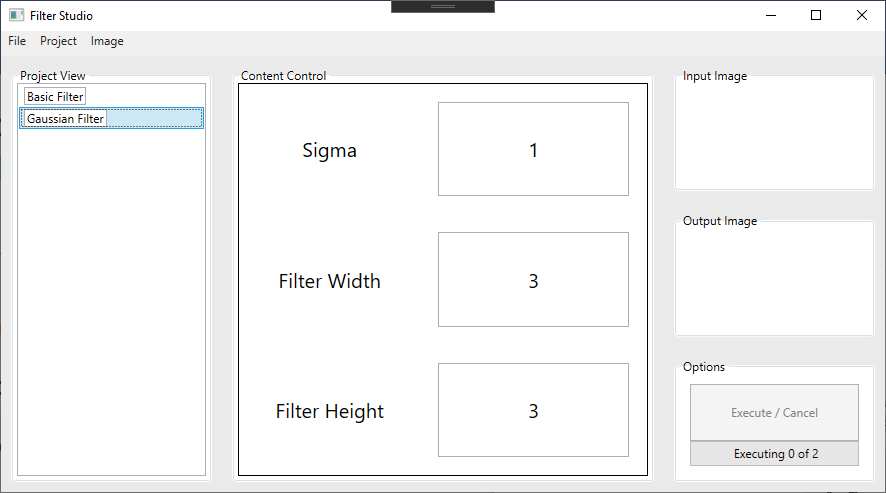
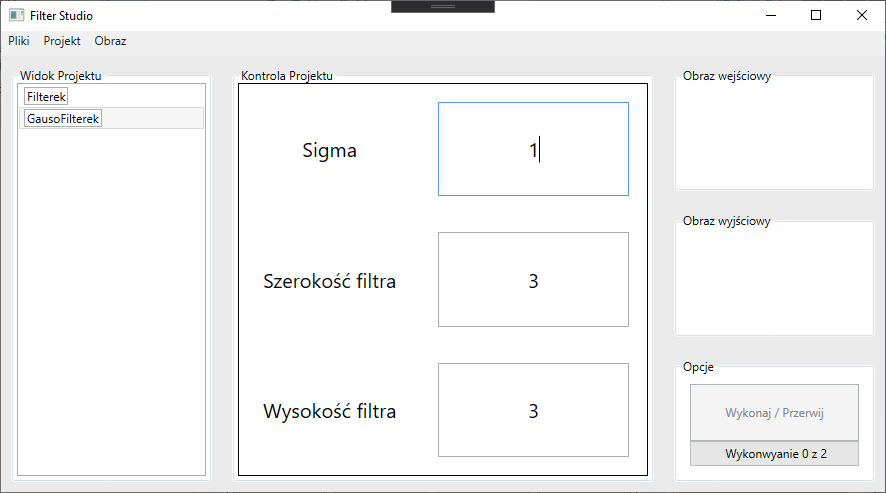
Names translated

diff --git a/docs/Documentation/main.tex b/docs/Documentation/main.tex
@@ -118,16 +118,16 @@ Ta sekcja dostarcza informacji na temat użycia programu \textbf{\textit{FilterS
 \includegraphics[width=0.9\textwidth]{overview.png}
 
 \begin{itemize}
-    \item \textit{Project View} -- Wyświetla wszystkie aktywne filtry i umożliwia użytkownikowi wybór filtra do edycji
-    \item \textit{Content Control} -- Umożliwia edycję filtrów, zobacz sekcje "Gaussian Filter" oraz "Basic Matrix Filters"
-    \item \textit{Input Image} -- Wyświetla miniaturę załadowanego obrazu
-    \item \textit{Output Image} -- Wyświetla miniaturę przetworzonego obrazu
-    \item \textit{Options} -- Ta sekcja zawiera przycisk umożliwiający renderowanie oraz wskaźnik postępu
+    \item \textit{Widok Projektu -- Wyświetla wszystkie aktywne filtry i umożliwia użytkownikowi wybór filtra do edycji
+    \item \textit{Kontrola Projektu} -- Umożliwia edycję filtrów, zobacz sekcje "Filtr Gaussa" oraz "Filtr Podstawowy"
+    \item \textit{Obraz Wejściowy} -- Wyświetla miniaturę załadowanego obrazu
+    \item \textit{Obraz Wyjściowy} -- Wyświetla miniaturę przetworzonego obrazu
+    \item \textit{Opcje} -- Ta sekcja zawiera przycisk umożliwiający renderowanie oraz wskaźnik postępu
 \end{itemize}
 
 \newpage
-\subsection{Gausian Filter}
-Aby dodać Filtr Gaussa wybierz \textbf{Project $\rightarrow$ Add New Filter $\rightarrow$ Gaussian Filter},
+\subsection{Filtr Gaussa}
+Aby dodać Filtr Gaussa wybierz \textbf{Projekt $\rightarrow$ Dodaj Filtr $\rightarrow$ Filtr Gaussa},
 
 \bigskip
 \includegraphics[width=0.9\textwidth]{gauss.png}
@@ -135,23 +135,23 @@ Aby dodać Filtr Gaussa wybierz \textbf{Project $\rightarrow$ Add New Filter $\r
 
 i wpisz parametry w pola tekstowe
 
-\subsection{Basic Matrix Filter}
-Aby dodać !!!Basic Matrix Filter!!! wybierz \textbf{Project $\rightarrow$ Add New Filter $\rightarrow$ Basic Matrix Filter},
+\subsection{Filtr Podstawowy}
+Aby dodać Filtr Podstawowy wybierz \textbf{Projekt $\rightarrow$ Dodaj filtr $\rightarrow$ Podstawowy Filtr},
 
 \bigskip
 \includegraphics[width=0.9\textwidth]{matrix.png}
 \bigskip
 
-dostosuj wymiary macierzy za pomocą przycisków w dolnej części !!!Content Control!!!\textbf{Content Control} i wpisz wartości w komórki.
+dostosuj wymiary macierzy za pomocą przycisków w dolnej części panelu\textbf{Kontroli Projektu} i wpisz wartości w komórki.
 
-\subsection{Greyscale Filter}
-Aby dodać !!!Greyscale Filter!!! wybierz \textbf{Project $\rightarrow$ Add New Filter $\rightarrow$ Greyscale Filter}
+\subsection{Filtr czarno-biały}
+Aby dodać Filtr czarno-biały wybierz \textbf{Projekt $\rightarrow$ Dodaj filtr $\rightarrow$ Filtr czarno-biały}
 
 \subsection{Wczytywanie, zapisywanie, oraz tworzenie nowych projektów}
-Wszystkie te funkcje dostępne są w menu \textbf{File} i działają w ustandaryzowany sposób.
+Wszystkie te funkcje dostępne są w menu \textbf{Plik} i działają w ustandaryzowany sposób.
 
 \subsection{Wczytywanie i zapisywanie obrazów}
-Obie te funkcje dostępne są w menu \textbf{Image} i działają w ustandaryzowany sposób.
+Obie te funkcje dostępne są w menu \textbf{Obraz} i działają w ustandaryzowany sposób.
 
 
 \section{Podsumowanie i wnioski}
